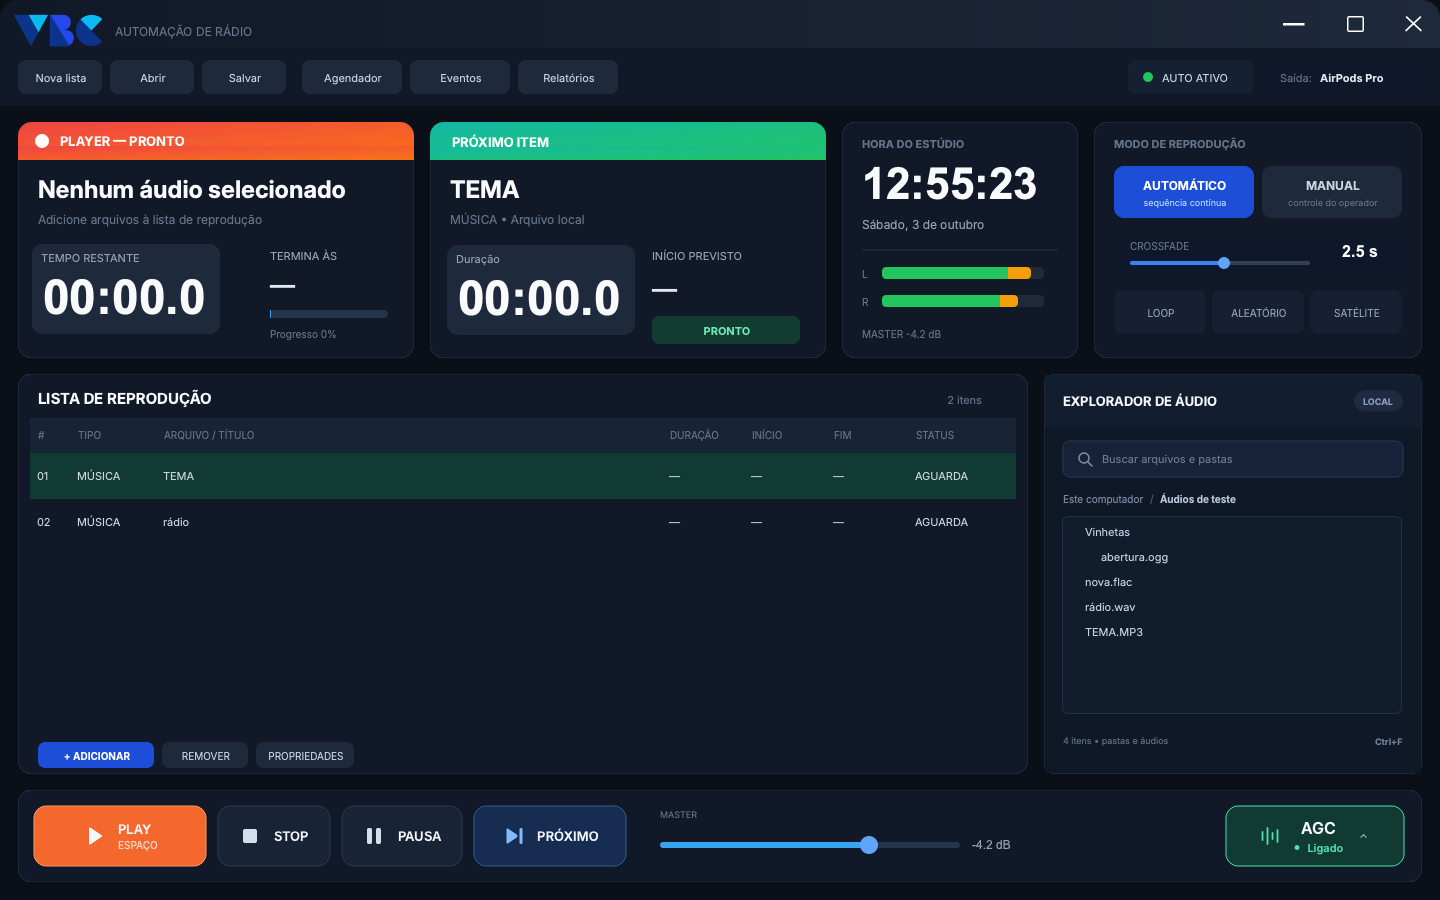
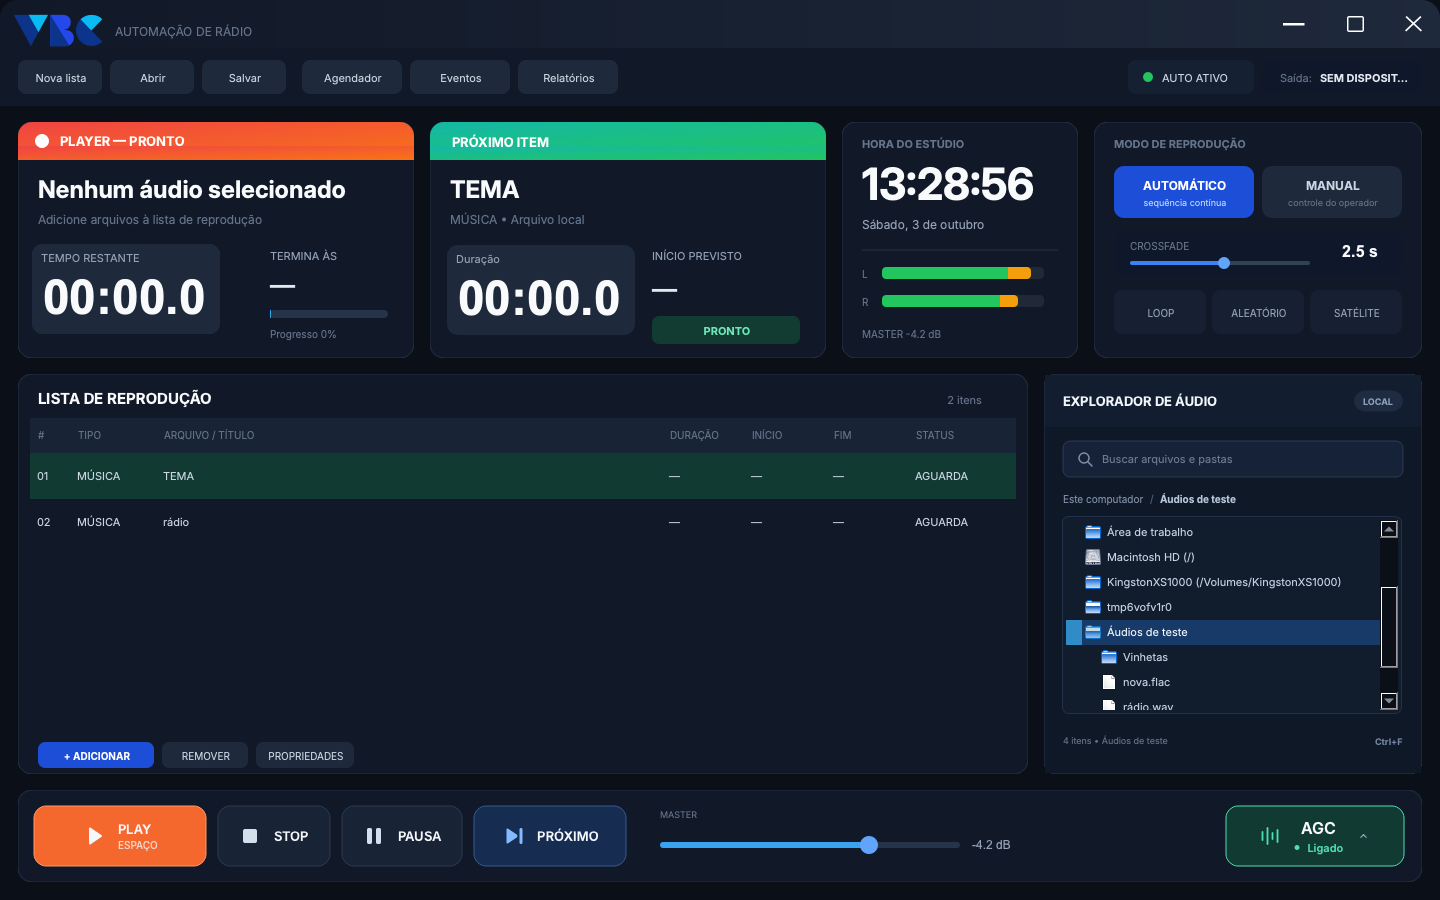
adicionada função de drag and drop das musicas e pastas

Changed region(s): [[0.7188, 0.56, 0.9688, 0.84], [0.5938, 0.1867, 0.7188, 0.2178], [0.9062, 0.0622, 0.9688, 0.0933]]

diff --git a/vbc_player/pages/player/widgets/explorer.py b/vbc_player/pages/player/widgets/explorer.py
@@ -1,22 +1,28 @@
 from pathlib import Path
 
 from PySide6.QtCore import (
-    QDir, QFileInfo, QModelIndex, QRectF, QSortFilterProxyModel, Qt, Signal,
+    QDir, QFileInfo, QMimeData, QModelIndex, QRectF, QSortFilterProxyModel,
+    Qt, QUrl, Signal,
 )
-from PySide6.QtGui import QKeySequence, QShortcut, QStandardItem, QStandardItemModel
+from PySide6.QtGui import QDrag, QKeySequence, QShortcut, QStandardItem, QStandardItemModel
 from PySide6.QtWidgets import (
     QAbstractItemView, QFileDialog, QFileIconProvider, QLabel, QLineEdit,
     QMenu, QTreeView,
 )
 
 from vbc_player.common.widgets.design_panel import DesignPanel
+from vbc_player.models import AUDIO_EXTENSIONS
 from vbc_player.services.filesystem_locations import default_directory, standard_locations
 
-AUDIO_EXTENSIONS = {".mp3", ".wav", ".flac", ".ogg", ".m4a", ".aac"}
 PATH_ROLE = Qt.ItemDataRole.UserRole + 1
 DIRECTORY_ROLE = Qt.ItemDataRole.UserRole + 2
 LOADED_ROLE = Qt.ItemDataRole.UserRole + 3
 PLACEHOLDER_ROLE = Qt.ItemDataRole.UserRole + 4
+
+
+def normalized_path(path):
+    info = QFileInfo(path)
+    return QDir.cleanPath(info.canonicalFilePath() or info.absoluteFilePath())
 
 
 class LocationsModel(QStandardItemModel):
@@ -46,10 +52,10 @@ class LocationsModel(QStandardItemModel):
         return item.index()
 
     def index_for_path(self, path, parent=QModelIndex()):
-        target = QDir.cleanPath(path)
+        target = normalized_path(path)
         for row in range(self.rowCount(parent)):
             index = self.index(row, 0, parent)
-            if QDir.cleanPath(index.data(PATH_ROLE) or "") == target:
+            if normalized_path(index.data(PATH_ROLE) or "") == target:
                 return index
         return QModelIndex()
 
@@ -116,6 +122,22 @@ class AudioFileFilter(QSortFilterProxyModel):
 class AudioTreeView(QTreeView):
     add_requested = Signal()
 
+    def startDrag(self, supported_actions):
+        entries = []
+        for index in self.selectionModel().selectedRows(0):
+            path = index.data(PATH_ROLE)
+            if path and Path(path).exists():
+                entries.append((path, bool(index.data(DIRECTORY_ROLE))))
+        files = [path for path, is_directory in entries if not is_directory]
+        paths = files or [path for path, _is_directory in entries]
+        if not paths:
+            return
+        mime = QMimeData()
+        mime.setUrls([QUrl.fromLocalFile(path) for path in paths])
+        drag = QDrag(self)
+        drag.setMimeData(mime)
+        drag.exec(Qt.DropAction.CopyAction)
+
     def keyPressEvent(self, event):
         if event.key() in (Qt.Key.Key_Return, Qt.Key.Key_Enter):
             self.add_requested.emit()
@@ -161,6 +183,9 @@ class FileExplorerWidget(DesignPanel):
         self.tree.setHeaderHidden(True)
         self.tree.setSelectionMode(QAbstractItemView.SelectionMode.ExtendedSelection)
         self.tree.setEditTriggers(QAbstractItemView.EditTrigger.NoEditTriggers)
+        self.tree.setDragEnabled(True)
+        self.tree.setDragDropMode(QAbstractItemView.DragDropMode.DragOnly)
+        self.tree.setDefaultDropAction(Qt.DropAction.CopyAction)
         self.tree.setUniformRowHeights(True)
         self.tree.setExpandsOnDoubleClick(True)
         self.tree.setIndentation(16)
@@ -205,7 +230,7 @@ class FileExplorerWidget(DesignPanel):
         self.expand_location(default_directory())
         self.setToolTip(
             "Somente locais reais são exibidos. Clique numa pasta para expandi-la "
-            "na árvore; dois cliques num áudio o adicionam à playlist."
+            "na árvore; arraste áudios ou pastas para a playlist."
         )
 
     def refresh_locations(self):
@@ -298,6 +323,7 @@ class FileExplorerWidget(DesignPanel):
             self._update_status(index)
 
     def activate_index(self, index):
+        self.tree.setCurrentIndex(index)
         source = self.proxy.mapToSource(index)
         if source.data(DIRECTORY_ROLE):
             self.expand_folder(index)
@@ -322,6 +348,15 @@ class FileExplorerWidget(DesignPanel):
                 if path and Path(path).suffix.casefold() in AUDIO_EXTENSIONS:
                     paths.append(path)
         return paths
+
+    def selected_import_paths(self):
+        entries = []
+        for index in self.tree.selectionModel().selectedRows(0):
+            path = index.data(PATH_ROLE)
+            if path and Path(path).exists():
+                entries.append((path, bool(index.data(DIRECTORY_ROLE))))
+        files = [path for path, is_directory in entries if not is_directory]
+        return files or [path for path, _is_directory in entries]
 
     def filter_files(self, query):
         self.proxy.set_query(query)
@@ -362,8 +397,8 @@ class FileExplorerWidget(DesignPanel):
         menu = QMenu(self)
         if index.isValid() and index.data(DIRECTORY_ROLE):
             menu.addAction("Expandir pasta", lambda: self.expand_folder(index))
-        add = menu.addAction("Adicionar áudios selecionados", self.add_selected)
-        add.setEnabled(bool(self.selected_audio_paths()))
+        add = menu.addAction("Adicionar áudios ou pastas selecionados", self.add_selected)
+        add.setEnabled(bool(self.selected_import_paths()))
         menu.addSeparator()
         menu.addAction("Escolher outra pasta…", self.choose_folder)
         menu.addAction("Atualizar", self.refresh)
@@ -378,14 +413,9 @@ class FileExplorerWidget(DesignPanel):
             self.status.setText(f"{count} locais reais • Ctrl+F")
 
     def add_selected(self):
-        self._add_paths(self.selected_audio_paths())
+        self._add_paths(self.selected_import_paths())
 
     def _add_paths(self, paths):
-        valid = [
-            path for path in paths
-            if path and Path(path).is_file()
-            and Path(path).suffix.casefold() in AUDIO_EXTENSIONS
-        ]
-        if valid:
-            self.service.add_tracks(valid)
-            self.status.setText(f"{len(valid)} áudio(s) enviado(s) à playlist.")
+        added = self.service.add_tracks(paths)
+        if added:
+            self.status.setText(f"{added} áudio(s) enviado(s) à playlist.")

diff --git a/vbc_player/pages/player/widgets/playlist.py b/vbc_player/pages/player/widgets/playlist.py
@@ -1,8 +1,45 @@
+from pathlib import Path
+
 from PySide6.QtCore import QRectF, Qt, Signal
 from PySide6.QtGui import QColor, QFont, QPainter, QPen
 from PySide6.QtWidgets import QAbstractItemView, QFileDialog, QMessageBox, QTableWidget, QTableWidgetItem
 
 from vbc_player.common.widgets.design_panel import DesignPanel
+
+
+def local_paths(mime_data):
+    if not mime_data.hasUrls():
+        return []
+    return [
+        url.toLocalFile()
+        for url in mime_data.urls()
+        if url.isLocalFile() and Path(url.toLocalFile()).exists()
+    ]
+
+
+class PlaylistTable(QTableWidget):
+    paths_dropped = Signal(list)
+
+    def dragEnterEvent(self, event):
+        if local_paths(event.mimeData()):
+            event.acceptProposedAction()
+        else:
+            event.ignore()
+
+    def dragMoveEvent(self, event):
+        if local_paths(event.mimeData()):
+            event.acceptProposedAction()
+        else:
+            event.ignore()
+
+    def dropEvent(self, event):
+        paths = local_paths(event.mimeData())
+        if not paths:
+            event.ignore()
+            return
+        self.paths_dropped.emit(paths)
+        event.setDropAction(Qt.DropAction.CopyAction)
+        event.accept()
 
 
 class PlaylistWidget(DesignPanel):
@@ -15,7 +52,9 @@ class PlaylistWidget(DesignPanel):
         self.button("Adicionar áudio", self.local_rect("17:545"), self.import_audio)
         self.button("Remover item selecionado", self.local_rect("17:547"), self.remove_selected)
         self.button("Propriedades do item", self.local_rect("17:549"), self.properties)
-        self.table = QTableWidget(0, 8, self)
+        self.setAcceptDrops(True)
+        self.table = PlaylistTable(0, 8, self)
+        self.table.setAcceptDrops(True)
         self.table.setHorizontalHeaderLabels(["#", "TIPO", "ARQUIVO / TÍTULO", "DURAÇÃO", "INÍCIO", "FIM", "STATUS", ""])
         self.table.setColumnHidden(7, True)
         self.table.verticalHeader().hide()
@@ -29,10 +68,32 @@ class PlaylistWidget(DesignPanel):
         self.table.setAccessibleName("Lista de reprodução")
         self.table.cellDoubleClicked.connect(lambda row, _col: service.play_index(row))
         self.table.itemSelectionChanged.connect(self._selected)
+        self.table.paths_dropped.connect(self.add_tracks)
         self.add_control(self.table, QRectF(12, 44, 986, 312))
         self.table.hide()
         service.queue_changed.connect(self.refresh)
-        self.setToolTip("Lista inicial: referência do Figma, sem arquivos de áudio. Adicione seus arquivos para reproduzir.")
+        self.setToolTip("Arraste arquivos de áudio ou pastas do explorador para adicionar à lista.")
+
+    def dragEnterEvent(self, event):
+        if local_paths(event.mimeData()):
+            event.acceptProposedAction()
+        else:
+            event.ignore()
+
+    def dragMoveEvent(self, event):
+        if local_paths(event.mimeData()):
+            event.acceptProposedAction()
+        else:
+            event.ignore()
+
+    def dropEvent(self, event):
+        paths = local_paths(event.mimeData())
+        if not paths:
+            event.ignore()
+            return
+        self.add_tracks(paths)
+        event.setDropAction(Qt.DropAction.CopyAction)
+        event.accept()
 
     def import_audio(self):
         paths, _ = QFileDialog.getOpenFileNames(self, "Adicionar áudios", "", "Áudio (*.mp3 *.wav *.flac *.ogg *.m4a *.aac);;Todos os arquivos (*)")

diff --git a/tests/test_app.py b/tests/test_app.py
@@ -8,17 +8,18 @@ from unittest.mock import patch
 
 os.environ.setdefault("QT_QPA_PLATFORM", "offscreen")
 
-from PySide6.QtCore import QDateTime, QEventLoop, QItemSelectionModel, QPersistentModelIndex, QTimer
+from PySide6.QtCore import QDateTime, QEventLoop, QItemSelectionModel, QMimeData, QPersistentModelIndex, QTimer, QUrl
 from PySide6.QtGui import QFont, QFontDatabase, QFontMetricsF
 from PySide6.QtMultimedia import QMediaPlayer
 from PySide6.QtWidgets import QApplication
 
 from vbc_player.main_window import MainWindow
-from vbc_player.models import Track
+from vbc_player.models import Track, collect_audio_paths
 from vbc_player.services.playlist_storage import read_playlist, save_playlist
 from vbc_player.theme import ASSETS, DESIGN, STYLESHEET
 from vbc_player.common.widgets.design_panel import DesignPanel, descendants
 from vbc_player.pages.player.widgets.explorer import PATH_ROLE
+from vbc_player.pages.player.widgets.playlist import local_paths
 from vbc_player.services.filesystem_locations import standard_locations
 
 
@@ -121,6 +122,31 @@ class ApplicationTests(unittest.TestCase):
             service.remove(0)
             self.assertEqual(service.tracks, [])
             self.assertEqual(service.index, -1)
+
+    def test_audio_folders_and_drag_drop_are_supported(self):
+        with tempfile.TemporaryDirectory() as folder:
+            root = Path(folder)
+            nested = root / "Álbum" / "Disco 1"
+            nested.mkdir(parents=True)
+            first = root / "Álbum" / "01 - Abertura.MP3"
+            second = nested / "02 - Música.flac"
+            ignored = nested / "capa.jpg"
+            first.write_bytes(b"audio")
+            second.write_bytes(b"audio")
+            ignored.write_bytes(b"image")
+
+            self.assertEqual(collect_audio_paths([root / "Álbum"]), [str(first.resolve()), str(second.resolve())])
+            mime = QMimeData()
+            mime.setUrls([QUrl.fromLocalFile(str(root / "Álbum"))])
+            playlist = self.window.player_page.playlist
+            self.assertEqual(local_paths(mime), [str(root / "Álbum")])
+            playlist.table.paths_dropped.emit(local_paths(mime))
+            self.assertEqual(
+                [track.path for track in self.window.service.tracks],
+                [str(first.resolve()), str(second.resolve())],
+            )
+            self.assertTrue(playlist.table.acceptDrops())
+            self.assertTrue(self.window.player_page.explorer.tree.dragEnabled())
 
     def test_storage_round_trip_and_invalid_input(self):
         with tempfile.TemporaryDirectory() as folder:

diff --git a/vbc_player/services/playback.py b/vbc_player/services/playback.py
@@ -2,7 +2,7 @@ from pathlib import Path
 
 from PySide6.QtCore import QObject, QUrl, Signal
 from PySide6.QtMultimedia import QAudioOutput, QMediaPlayer
-from vbc_player.models import Track, demo_tracks
+from vbc_player.models import Track, collect_audio_paths, demo_tracks
 import random
 
 
@@ -34,18 +34,22 @@ class PlaybackService(QObject):
         )
 
     def add_tracks(self, paths):
-        valid = [str(Path(path).resolve()) for path in paths if Path(path).is_file()]
+        valid = collect_audio_paths(paths)
         if not valid:
-            return
+            return 0
         if self.demo:
             self.tracks = []
             self.demo = False
         existing = {track.path for track in self.tracks}
+        added = 0
         for path in valid:
             if path not in existing:
                 self.tracks.append(Track.from_path(path))
                 existing.add(path)
-        self.queue_changed.emit()
+                added += 1
+        if added:
+            self.queue_changed.emit()
+        return added
 
     def play_index(self, index):
         if not 0 <= index < len(self.tracks):

diff --git a/vbc_player/models.py b/vbc_player/models.py
@@ -1,5 +1,37 @@
 from dataclasses import dataclass
+import os
 from pathlib import Path
+
+
+AUDIO_EXTENSIONS = {".mp3", ".wav", ".flac", ".ogg", ".m4a", ".aac"}
+
+
+def collect_audio_paths(paths):
+    """Expande arquivos e pastas em uma lista ordenada de áudios locais."""
+    audio_paths = []
+    seen = set()
+
+    def append(path):
+        resolved = str(Path(path).resolve())
+        if resolved not in seen:
+            seen.add(resolved)
+            audio_paths.append(resolved)
+
+    for raw_path in paths:
+        path = Path(raw_path)
+        if path.is_file():
+            if path.suffix.casefold() in AUDIO_EXTENSIONS:
+                append(path)
+            continue
+        if not path.is_dir():
+            continue
+        for root, directories, files in os.walk(path):
+            directories.sort(key=str.casefold)
+            for filename in sorted(files, key=str.casefold):
+                file = Path(root, filename)
+                if file.suffix.casefold() in AUDIO_EXTENSIONS:
+                    append(file)
+    return audio_paths
 
 
 @dataclass
